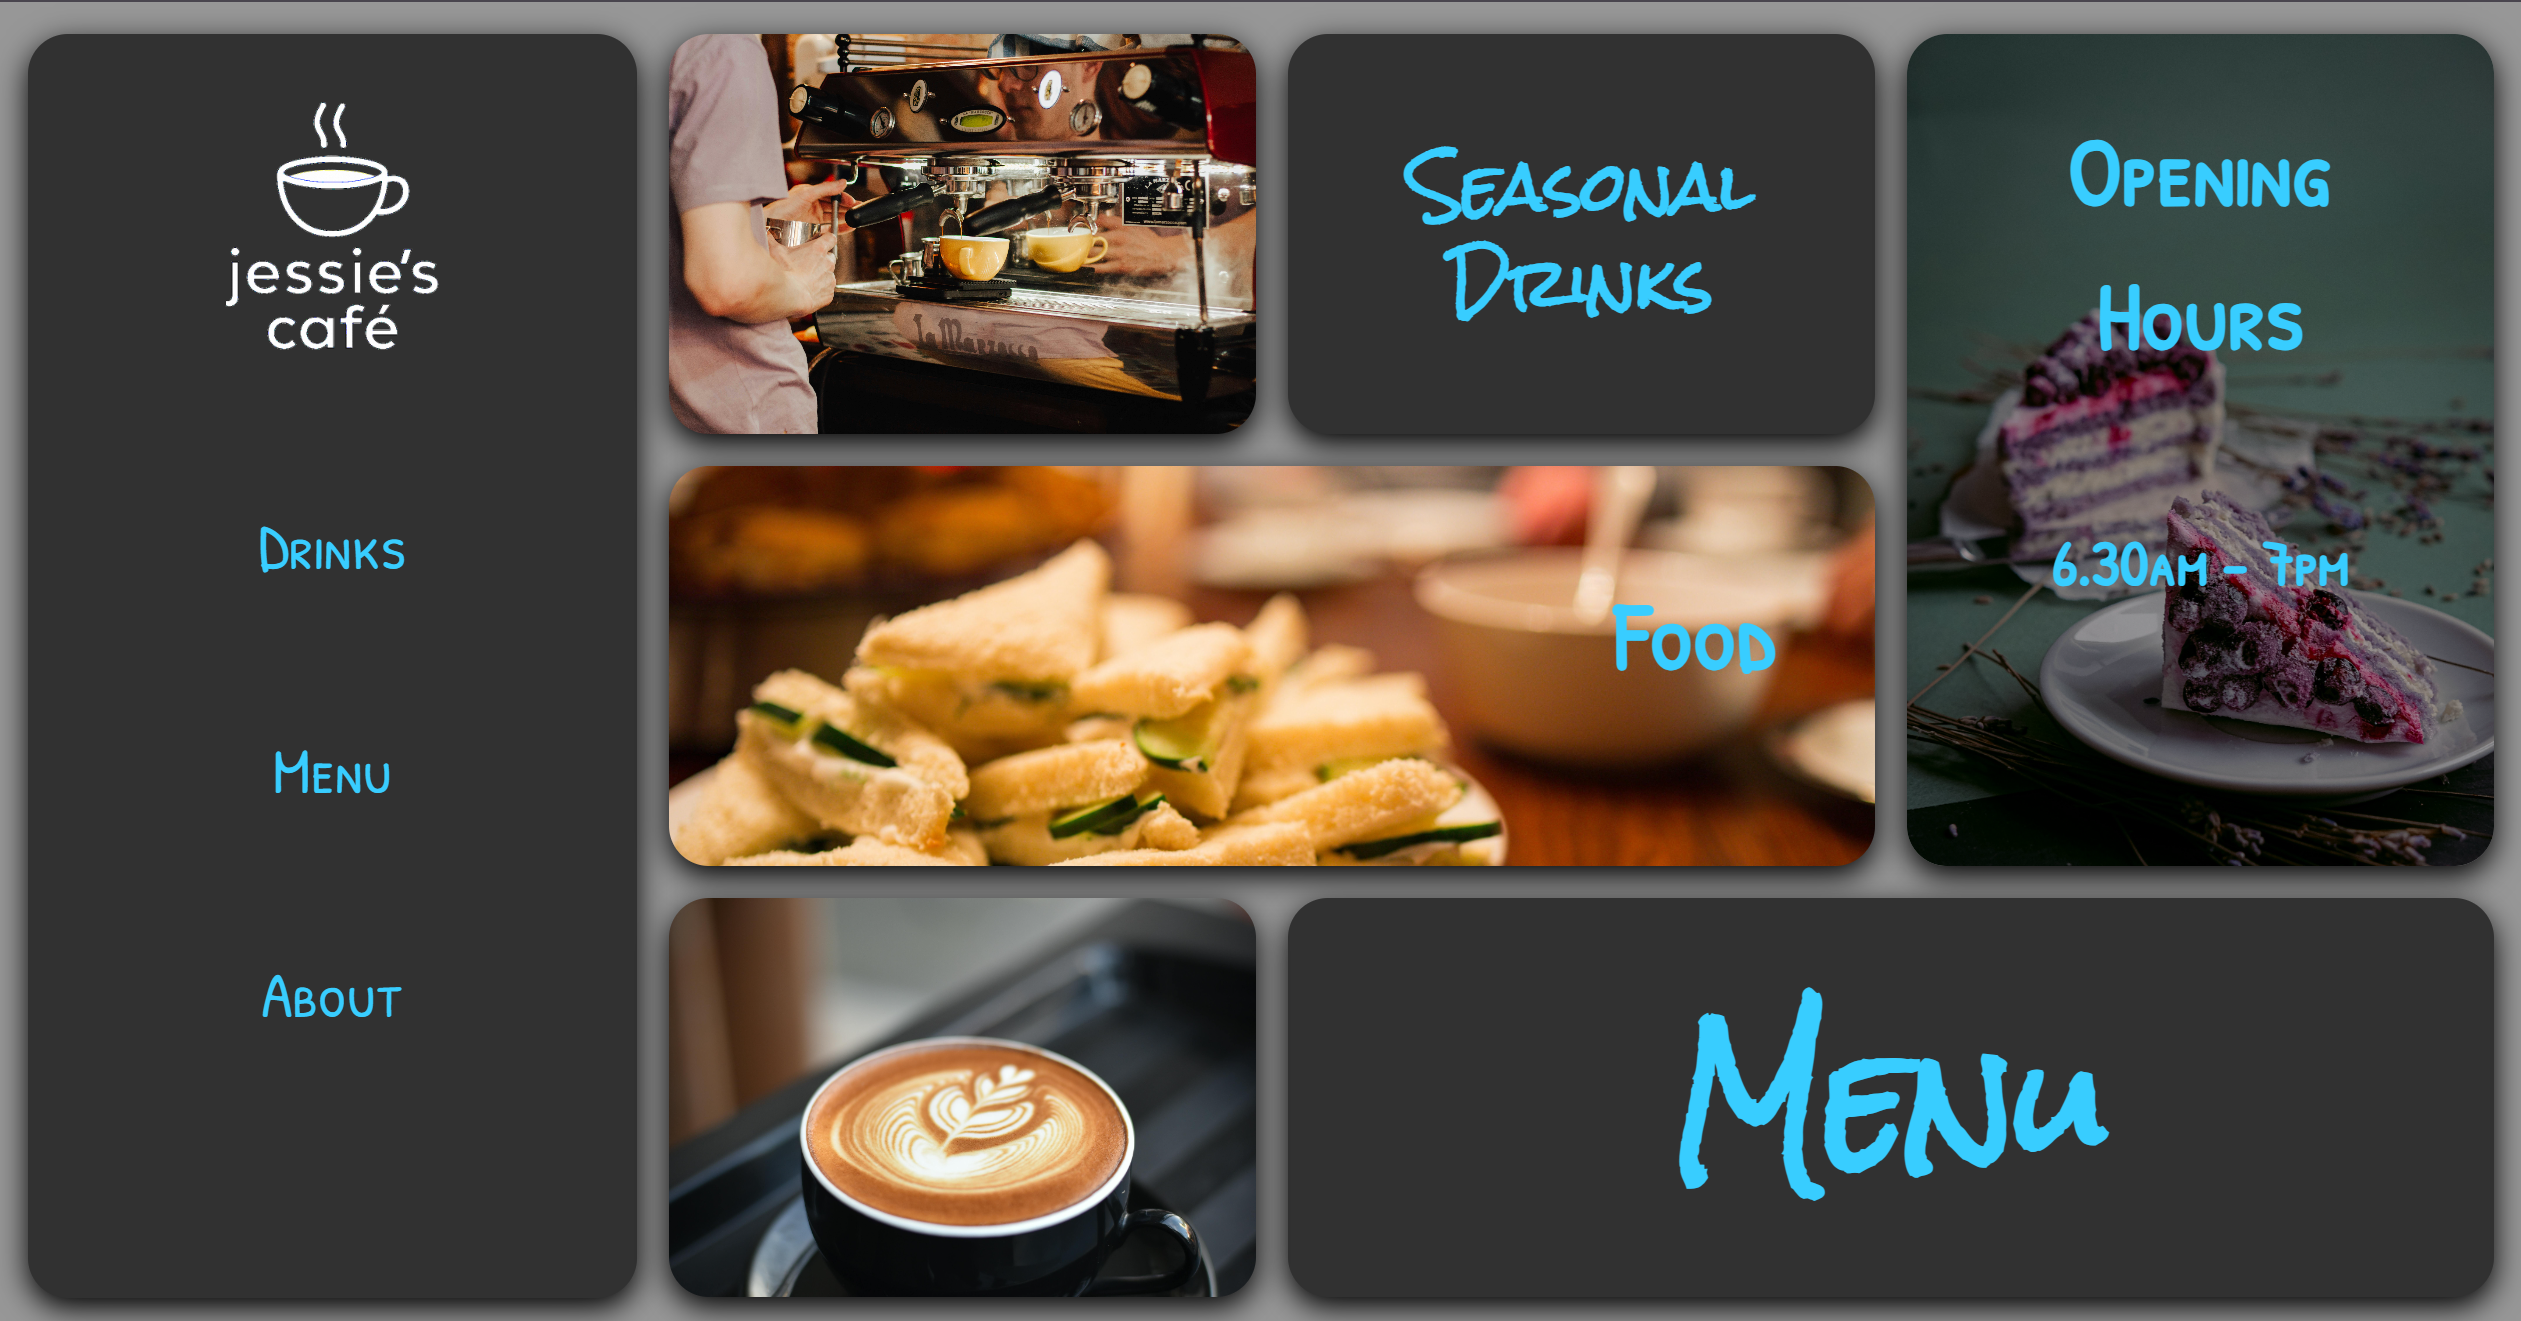
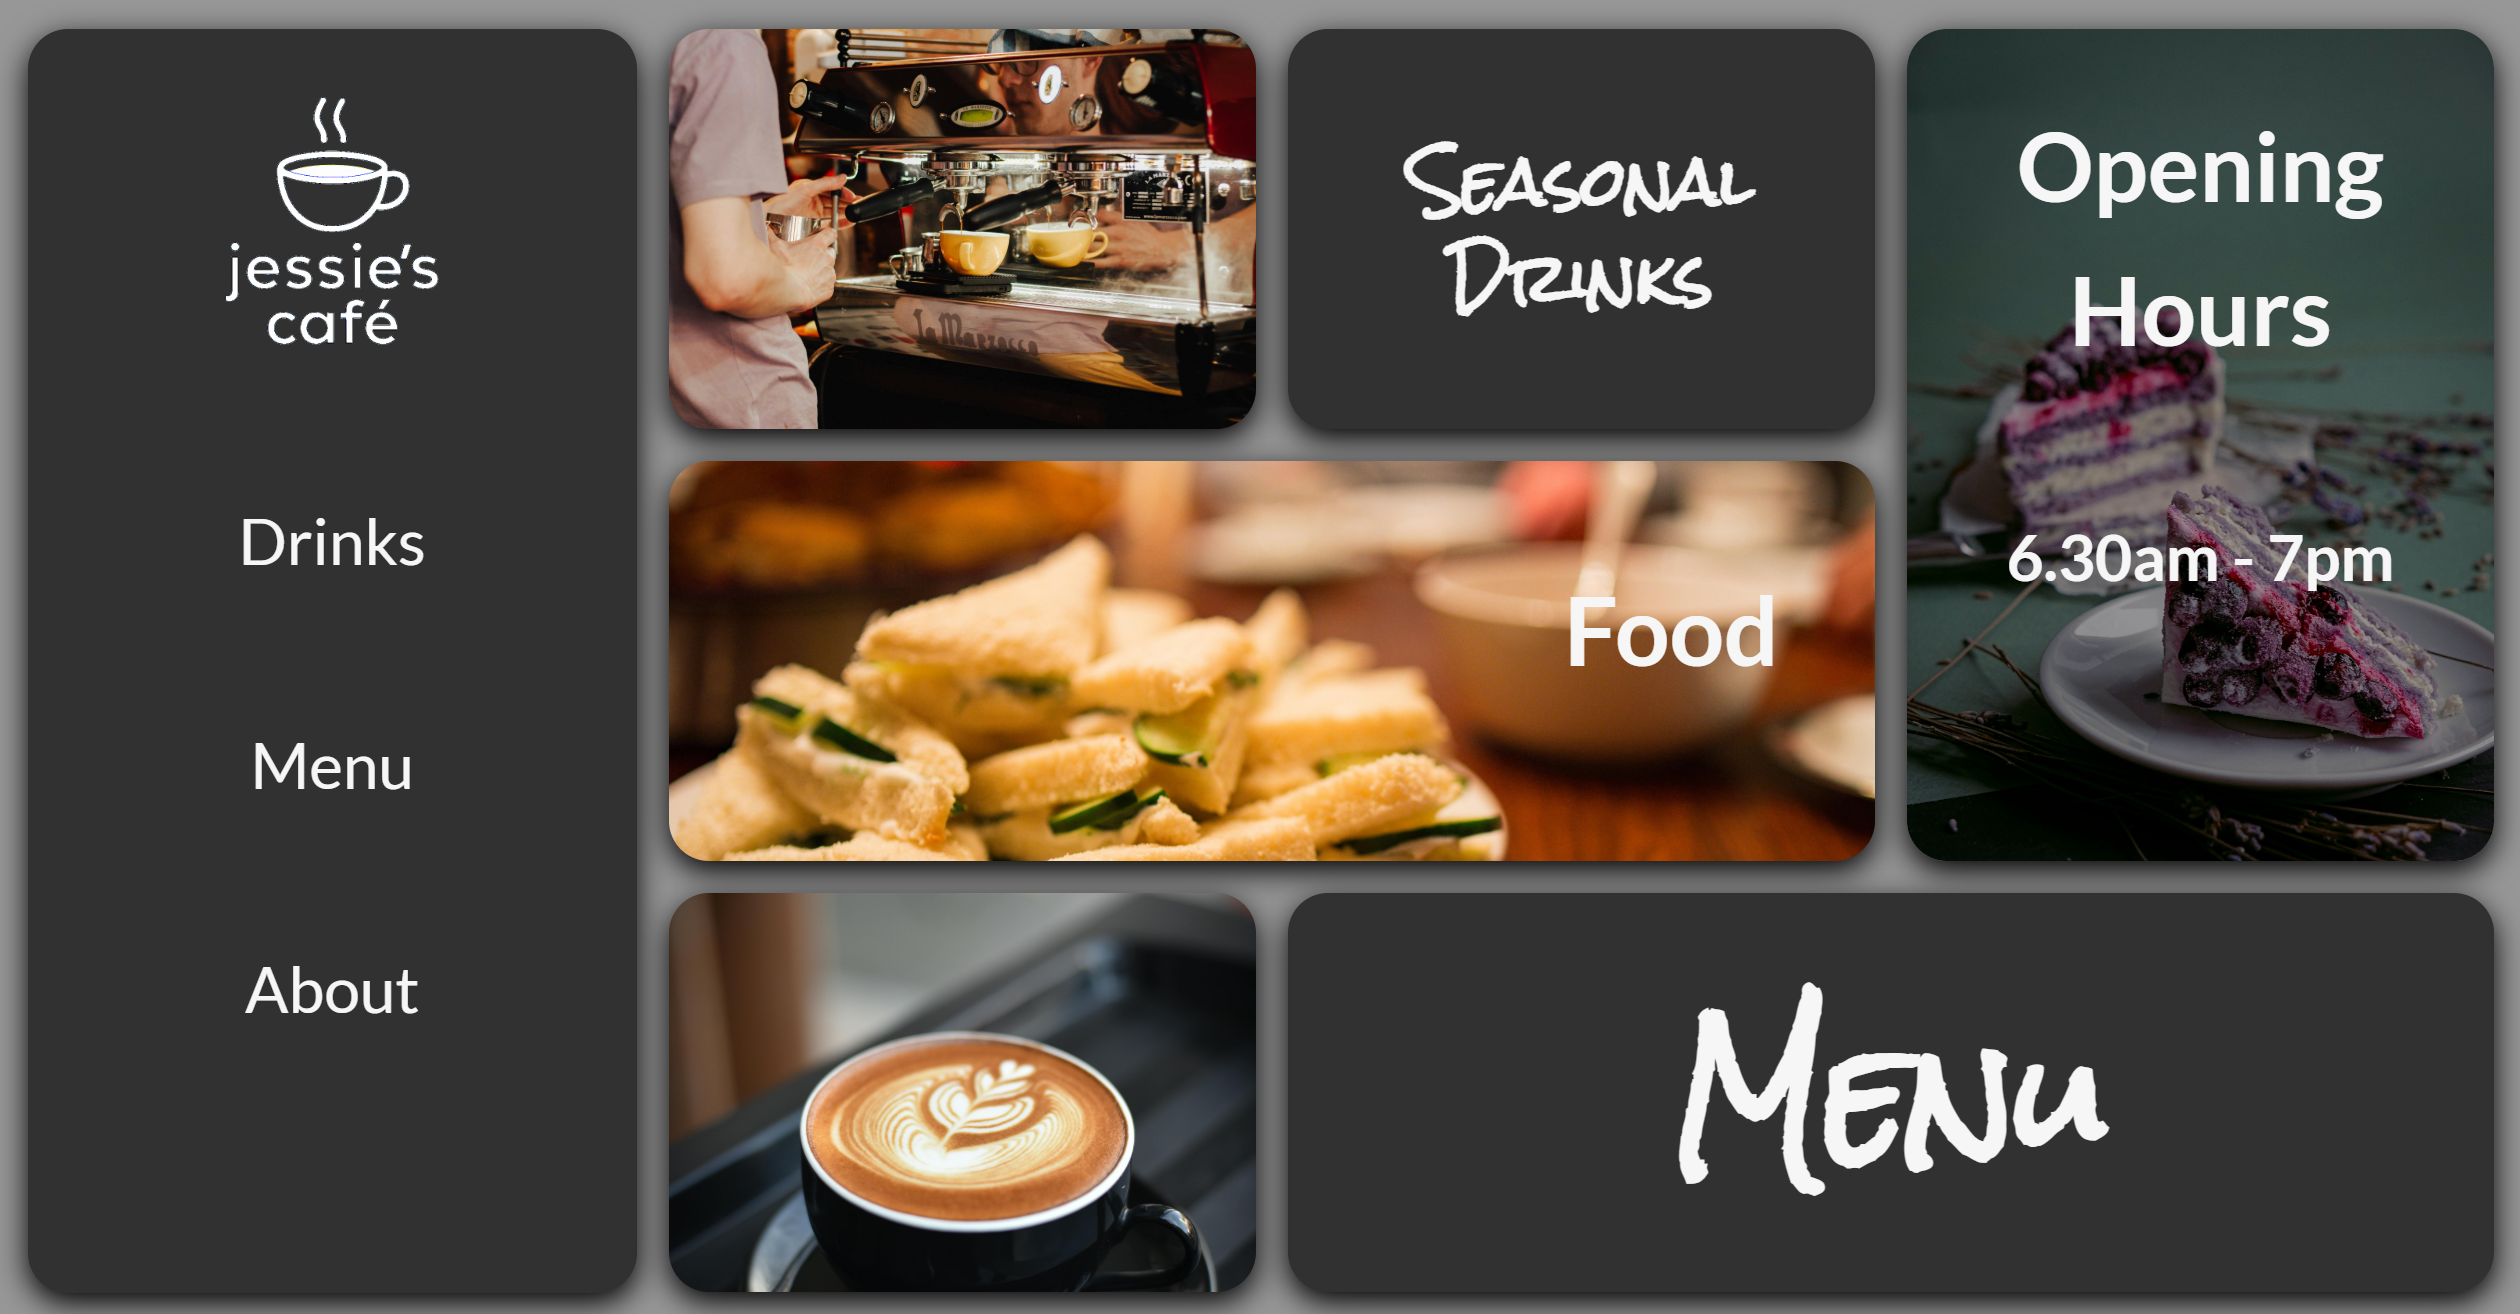
changed photos, changed rawlings link and contact page

diff --git a/contact.html b/contact.html
@@ -59,13 +59,20 @@
 
             </div>
 
-            <form action="" class="contact-form">
+            <form action="" name="contact-siobhan" method="POST" netlify-honeypot="bot-field" data-netlify="true" class="contact-form">
+                <input type="hidden" name="form-name" value="contact" />
+                        <p class="hidden">
+                            <label>
+                            Don’t fill this out if you’re human: <input name="bot-field" type="text" />
+                            </label>
+                        </p>
                 <label for="name" class="title">Name</label>
                 <input type="text" id="name" name="name" placeholder="Your name" required>
                 <label for="email" class="title">Email</label>
                 <input type="email" id="email-form" name="email" placeholder="Your email" required>
                 <label for="message" class="title">Message</label>
                 <textarea id="message" name="message" placeholder="Your message" required></textarea>
+                <div data-netlify-recaptcha="true"></div>
                 <button type="submit" class="btn">Send</button>
             </form>
           </section>

diff --git a/projects.html b/projects.html
@@ -34,7 +34,7 @@
                 
                 <div class="project-container">
                     
-                    <a href="https://rawlingsgardencare.netlify.app/" target="_blank"><img src="resources/rawlingsgardencare2.png" alt="Rawlings Garden Care"></a>
+                    <a href="https://www.rawlingsgardencare.co.uk/" target="_blank"><img src="resources/rawlingsgardencare2.png" alt="Rawlings Garden Care"></a>
                     <div class="title-arrow">
                         <h2 class="project-heading">Rawlings Garden Care</h2>
                         <div class="arrow"><p>&#9661;</p></div>

diff --git a/styles.css b/styles.css
@@ -454,7 +454,7 @@ h2 {
 #availability {
   grid-column: 2/4;
   grid-row: 3 ;
-  display: flex;
+  display: none;
   flex-direction: column;
   align-items: center;
   
@@ -462,7 +462,7 @@ h2 {
 }
 
 #what-to-include {
-  grid-column: 4/6;
+  grid-column: 2/4;
   grid-row: 3 ;
   display: flex;
   flex-direction: column;
@@ -471,9 +471,12 @@ h2 {
   gap: 10px;
 }
 
+.hidden {
+  display: none;
+}
 .contact-form {
-  grid-column: 2/6;
-  grid-row: 4;
+  grid-column: 4/6;
+  grid-row: 3;
   display: flex;
   flex-direction: column;
   align-items: center;
